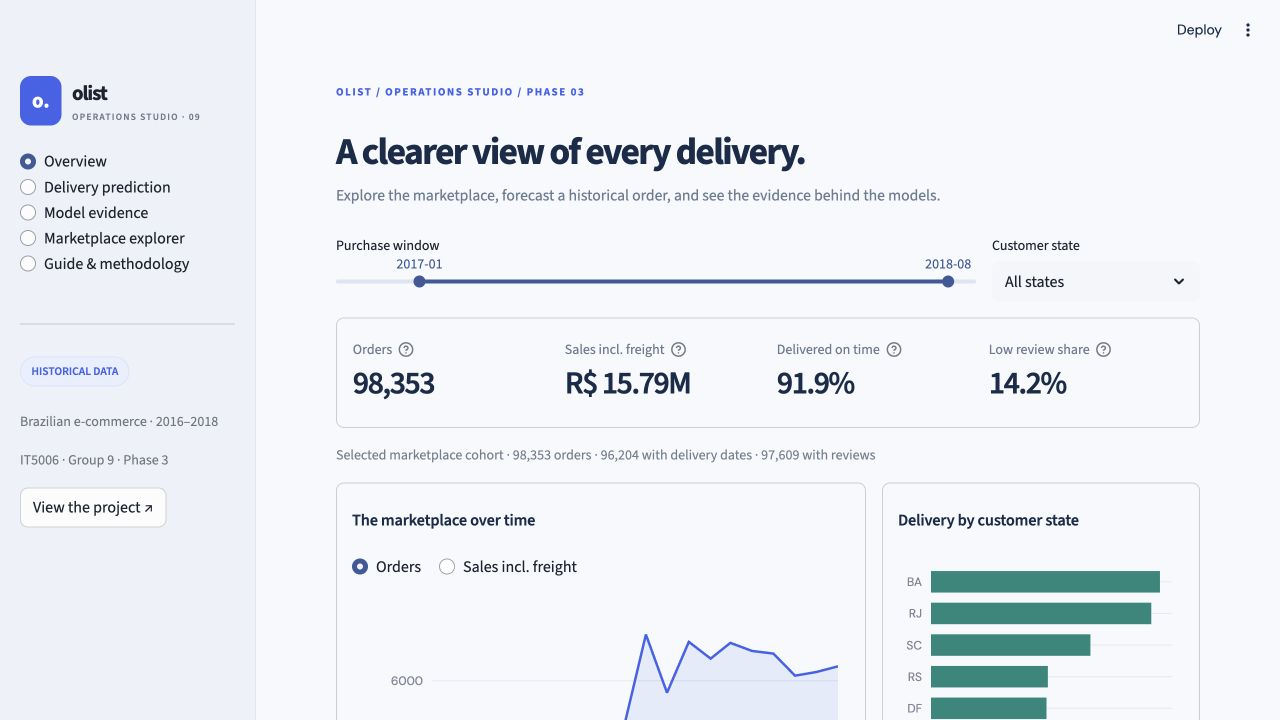
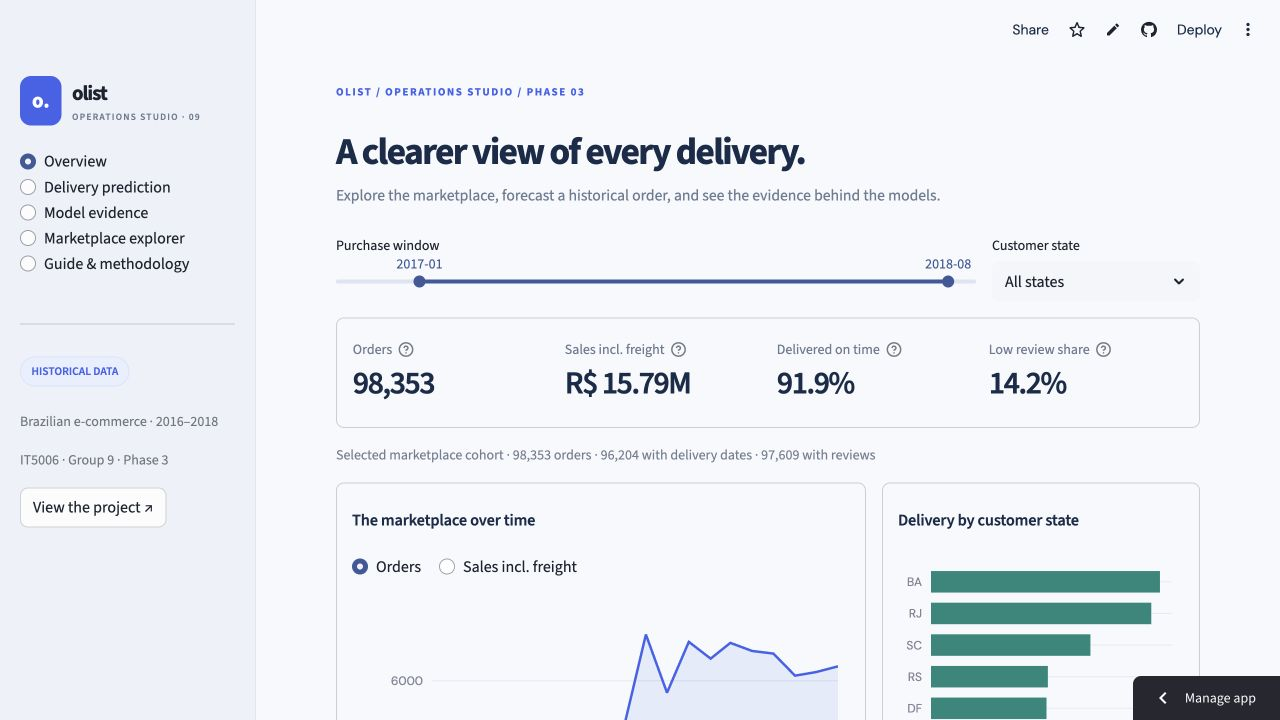
Record the verified Streamlit Cloud deployment
Document the Python 3.12 Cloud runtime and successful browser checks of all five pages, real delivery inference, outcome reveal and classification operating-rule switching. Replace preview images with screenshots of the deployed application.

Changed region(s): [[0.875, 0.9167, 1.0, 1.0], [0.7812, 0.0306, 0.9062, 0.0611]]

diff --git a/Phase_3/deployment/README.md b/Phase_3/deployment/README.md
@@ -3,6 +3,11 @@
 The integrated Streamlit application is in [app.py](app.py), launched through the
 existing root dashboard/app.py. See the [setup and usage guide](../../dashboard/README.md).
 
+The original application URL has been verified online with Python 3.12.16,
+including real model prediction and outcome reveal. The
+[verification record](live_verification.json) preserves the runtime versions and
+browser checks; [screenshots](../docs/dashboard/README.md) show the deployed app.
+
 The committed [assets](assets/) include a real regression predictor and 120
 historical examples. The [exporter](build_demo_bundle.py) reproduces the frozen
 HGB_risk specification in isolated scratch storage, without tuning or a new

diff --git a/dashboard/README.md b/dashboard/README.md
@@ -24,6 +24,12 @@ scikit-learn 1.7.2 for the fitted artifact. The root requirements file also incl
 these same constraints so root-based dependency discovery stays consistent.
 No secrets are required.
 
+The existing Cloud app is configured with Python 3.12. Online prediction,
+outcome reveal, all five pages and classification operating-rule switching were
+verified after rebuilding the environment. See the
+[online verification record](../Phase_3/deployment/live_verification.json) and
+[deployed screenshots](../Phase_3/docs/dashboard/README.md).
+
 ## Pages
 
 | Page | Use |

diff --git a/Phase_3/docs/dashboard/README.md b/Phase_3/docs/dashboard/README.md
@@ -1,6 +1,7 @@
 # Dashboard screenshots
 
-Captured from the running Phase 3 Streamlit application after browser checks.
+Captured from the [deployed Phase 3 application](https://it5006-group9-olist-project-c5hmxth6jt543wszxqoaqd.streamlit.app/)
+after online browser checks on 31 October 2026.
 The model demonstration executes the fitted regressor, then optionally reveals
 the held-out historical delivery outcome. The screenshots may be reused in the
 presentation and deployment section of the report.
